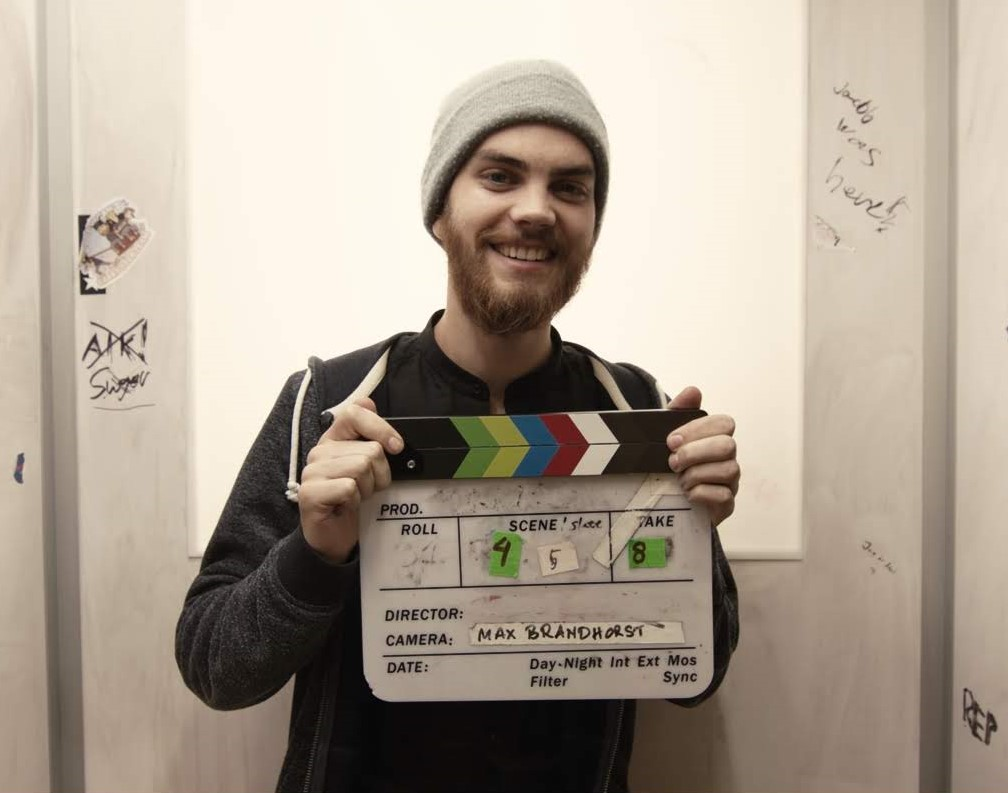
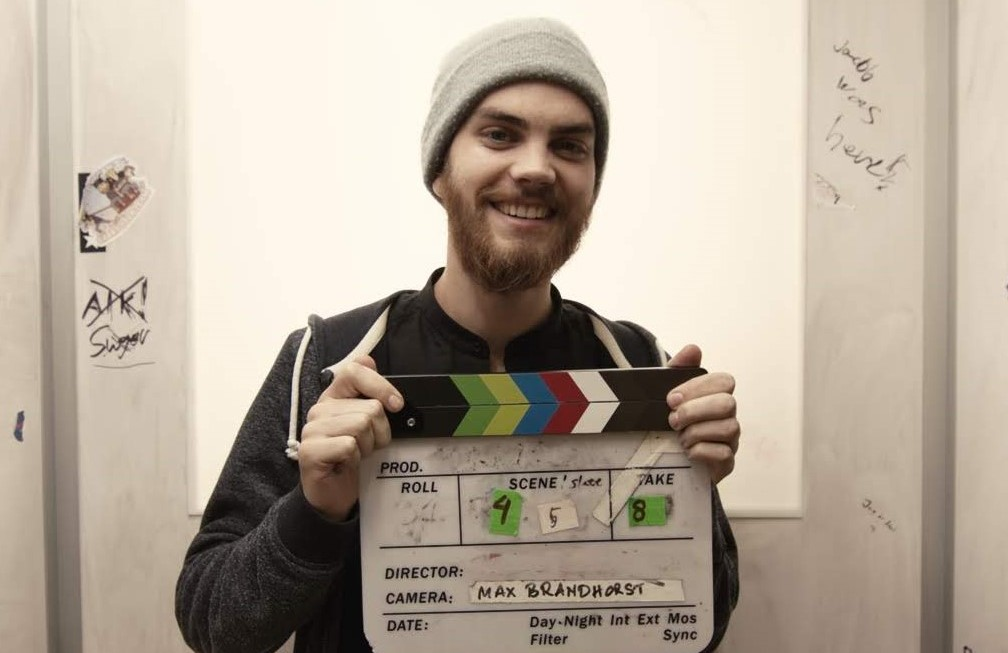
Cleaned HTML and cropped og:image.

diff --git a/about.html b/about.html
@@ -68,7 +68,7 @@
 				<a id="menu" onclick=toggleMenu()>menu</a>
 				<hr>
 			</div>
-			<div class="nav_title" id="fade_in_title">
+			<div class="nav_title">
 				<a href="./index" class="whitetext">
 					<h1>Max Brandhorst-Satzkorn</h1><br>
 					<h2>Cinematographer</h2>
@@ -94,6 +94,7 @@
 							sizes="(max-width: 600px) 589px,									
 									1178px"
 							src="media/max.png" alt="Photo of Max">
+							
 					<div class="introduction">
 						<p>Hi! I'm Max, I work as a cinematographer based in Stockholm.
 						I've shot several shorts, music videos, commercials and more.

diff --git a/index.html b/index.html
@@ -68,7 +68,7 @@
 				<a id="menu" onclick=toggleMenu()>menu</a>
 				<hr>
 			</div>
-			<div class="nav_title" id="fade_in_title">
+			<div class="nav_title">
 				<a href="./index" class="whitetext">
 					<h1>Max Brandhorst-Satzkorn</h1><br>
 					<h2>Cinematographer</h2>

diff --git a/projects.html b/projects.html
@@ -68,7 +68,7 @@
 				<a id="menu" onclick=toggleMenu()>menu</a>
 				<hr>
 			</div>
-			<div class="nav_title" id="fade_in_title">
+			<div class="nav_title">
 				<a href="./index" class="whitetext">
 					<h1>Max Brandhorst-Satzkorn</h1><br>
 					<h2>Cinematographer</h2>
